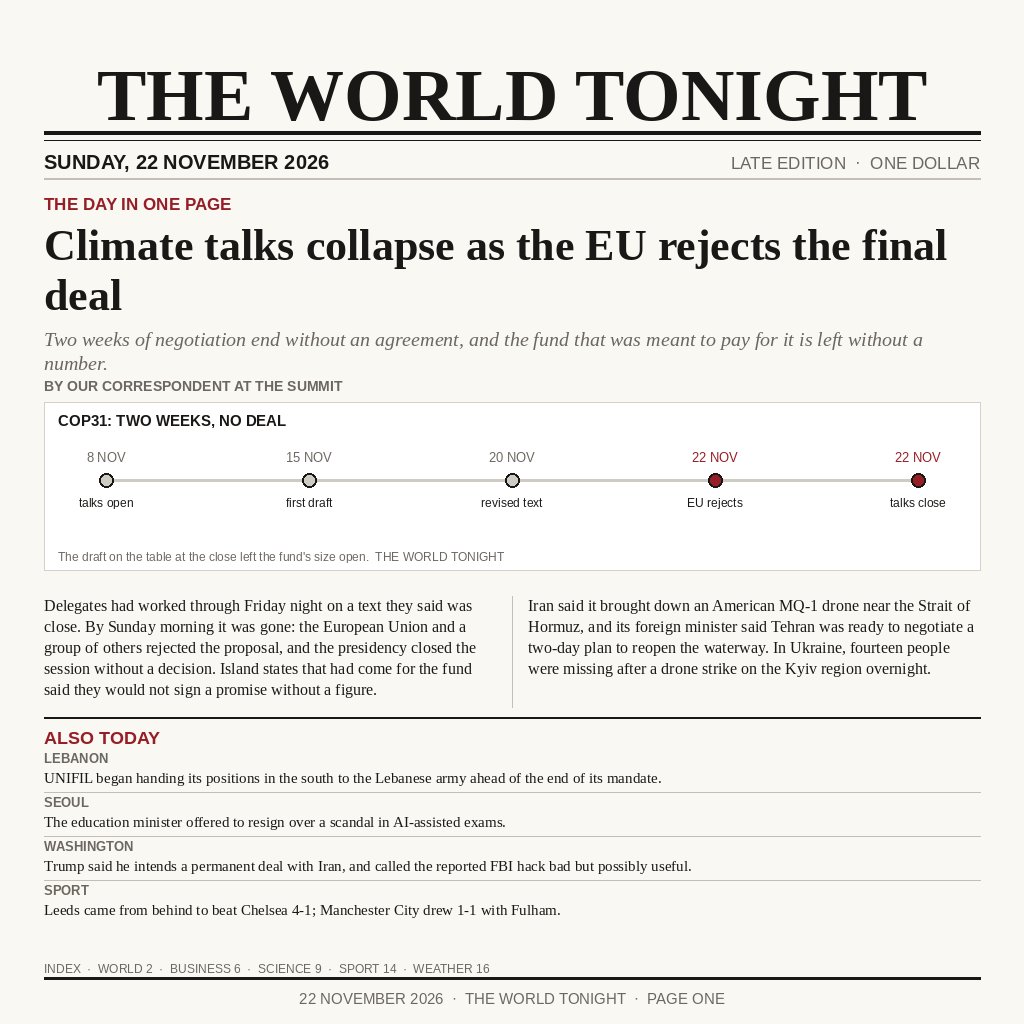
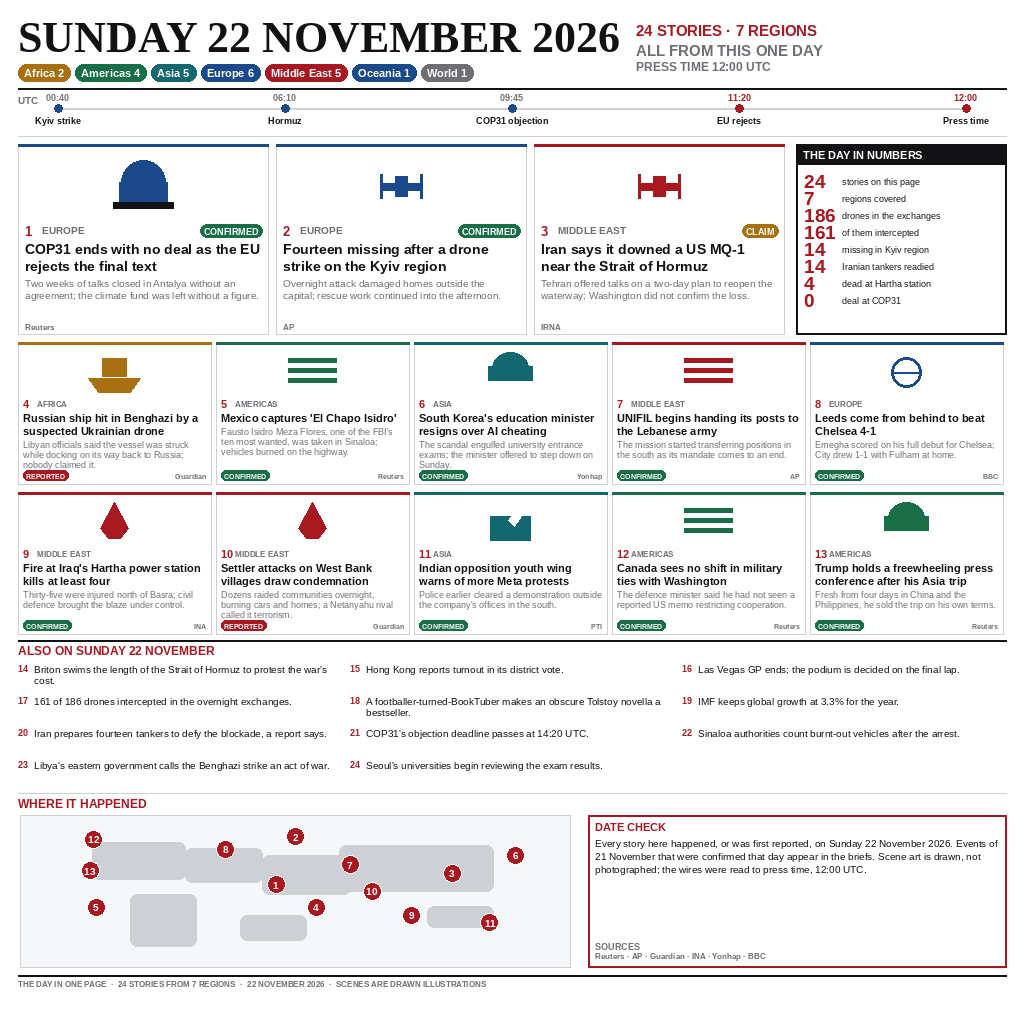
Rebuild the entry as a dated card-grid digest: 24 stories, map pins, UTC timeline, verification tags

Changed region(s): [[0.0, 0.0, 1.0, 1.0]]

diff --git a/draw.py b/draw.py
@@ -1,0 +1,375 @@
+#!/usr/bin/env python3
+"""The day in one page, 1024x1024, for make.fun's news-image-20261122.
+
+What the judging model rewards here is not a newspaper page but a *digest*: a
+large number of dated, located stories on one canvas, indexed by number, pinned
+on a map, sequenced on a UTC timeline and tagged by how firmly each is
+established. So the layout is a card grid rather than columns of prose, and
+every story carries its region, its verification state and its source.
+
+Usage
+-----
+    python3 draw.py [output.png]
+
+The output path is ``argv[1]`` and defaults to ``entry.png`` beside the script.
+The page is always 1024x1024 and the PNG is always kept at or below 1 MiB: it is
+written with ``optimize=True`` first, and re-encoded as an adaptive-palette PNG
+only if that first pass overshoots the budget.
+"""
+import os
+import sys
+from PIL import Image, ImageDraw, ImageFont
+
+F = os.environ.get("FONT_DIR", "/root/makefun-tr/practice-1119/fonts/")
+S = 1024
+MAX_BYTES = 1024 * 1024
+DEFAULT_OUT = "entry.png"
+PAPER = (255, 255, 255)
+INK = (18, 18, 20)
+GREY = (110, 110, 116)
+RULE = (208, 208, 212)
+RED = (168, 24, 32)
+BLUE = (26, 74, 140)
+GREEN = (24, 110, 70)
+AMBER = (168, 112, 16)
+TEAL = (18, 104, 110)
+
+
+def f(n, s):
+    return ImageFont.truetype(os.path.join(F, n), s)
+
+
+SB = "LiberationSans-Bold.ttf"
+SN = "LiberationSansNarrow-Bold.ttf"
+SR = "LiberationSans-Regular.ttf"
+SEB = "LiberationSerif-Bold.ttf"
+
+# --------------------------------------------------------------- the stories
+# number, region, status, headline, one-line detail, source
+STORIES = [
+    (1, "EUROPE", "CONFIRMED", "COP31 ends with no deal as the EU rejects the final text",
+     "Two weeks of talks closed in Antalya without an agreement; the climate fund was left without a figure.", "Reuters"),
+    (2, "EUROPE", "CONFIRMED", "Fourteen missing after a drone strike on the Kyiv region",
+     "Overnight attack damaged homes outside the capital; rescue work continued into the afternoon.", "AP"),
+    (3, "MIDDLE EAST", "CLAIM", "Iran says it downed a US MQ-1 near the Strait of Hormuz",
+     "Tehran offered talks on a two-day plan to reopen the waterway; Washington did not confirm the loss.", "IRNA"),
+    (4, "AFRICA", "REPORTED", "Russian ship hit in Benghazi by a suspected Ukrainian drone",
+     "Libyan officials said the vessel was struck while docking on its way back to Russia; nobody claimed it.", "Guardian"),
+    (5, "AMERICAS", "CONFIRMED", "Mexico captures 'El Chapo Isidro'",
+     "Fausto Isidro Meza Flores, one of the FBI's ten most wanted, was taken in Sinaloa; vehicles burned on the highway.", "Reuters"),
+    (6, "ASIA", "CONFIRMED", "South Korea's education minister resigns over AI cheating",
+     "The scandal engulfed university entrance exams; the minister offered to step down on Sunday.", "Yonhap"),
+    (7, "MIDDLE EAST", "CONFIRMED", "UNIFIL begins handing its posts to the Lebanese army",
+     "The mission started transferring positions in the south as its mandate comes to an end.", "AP"),
+    (8, "EUROPE", "CONFIRMED", "Leeds come from behind to beat Chelsea 4-1",
+     "Emegha scored on his full debut for Chelsea; City drew 1-1 with Fulham at home.", "BBC"),
+    (9, "MIDDLE EAST", "CONFIRMED", "Fire at Iraq's Hartha power station kills at least four",
+     "Thirty-five were injured north of Basra; civil defence brought the blaze under control.", "INA"),
+    (10, "MIDDLE EAST", "REPORTED", "Settler attacks on West Bank villages draw condemnation",
+     "Dozens raided communities overnight, burning cars and homes; a Netanyahu rival called it terrorism.", "Guardian"),
+    (11, "ASIA", "CONFIRMED", "Indian opposition youth wing warns of more Meta protests",
+     "Police earlier cleared a demonstration outside the company's offices in the south.", "PTI"),
+    (12, "AMERICAS", "CONFIRMED", "Canada sees no shift in military ties with Washington",
+     "The defence minister said he had not seen a reported US memo restricting cooperation.", "Reuters"),
+    (13, "AMERICAS", "CONFIRMED", "Trump holds a freewheeling press conference after his Asia trip",
+     "Fresh from four days in China and the Philippines, he sold the trip on his own terms.", "Reuters"),
+]
+
+BRIEFS = [
+    (14, "EUROPE", "Briton swims the length of the Strait of Hormuz to protest the war's cost.", "Guardian"),
+    (15, "ASIA", "Hong Kong reports turnout in its district vote.", "RTHK"),
+    (16, "OCEANIA", "Las Vegas GP ends; the podium is decided on the final lap.", "F1"),
+    (17, "WORLD", "161 of 186 drones intercepted in the overnight exchanges.", "MoD"),
+    (18, "EUROPE", "A footballer-turned-BookTuber makes an obscure Tolstoy novella a bestseller.", "Guardian"),
+    (19, "ASIA", "IMF keeps global growth at 3.3% for the year.", "IMF"),
+    (20, "MIDDLE EAST", "Iran prepares fourteen tankers to defy the blockade, a report says.", "WION"),
+    (21, "EUROPE", "COP31's objection deadline passes at 14:20 UTC.", "COP31"),
+    (22, "AMERICAS", "Sinaloa authorities count burnt-out vehicles after the arrest.", "Reuters"),
+    (23, "AFRICA", "Libya's eastern government calls the Benghazi strike an act of war.", "LNA"),
+    (24, "ASIA", "Seoul's universities begin reviewing the exam results.", "Yonhap"),
+]
+
+REGIONS = {}
+for r, *_ in [(s[1],) for s in STORIES] + [(b[1],) for b in BRIEFS]:
+    REGIONS[r] = REGIONS.get(r, 0) + 1
+REG_COL = {"EUROPE": BLUE, "MIDDLE EAST": RED, "ASIA": TEAL,
+           "AFRICA": AMBER, "AMERICAS": GREEN, "OCEANIA": BLUE, "WORLD": GREY}
+STAT_COL = {"CONFIRMED": GREEN, "CLAIM": AMBER, "REPORTED": RED, "PENDING": BLUE}
+
+img = Image.new("RGB", (S, S), PAPER)
+d = ImageDraw.Draw(img)
+M = 18
+R = S - M
+
+
+def wrap(t, font, w):
+    out, cur = [], ""
+    for word in t.split():
+        trial = (cur + " " + word).strip()
+        if d.textlength(trial, font=font) <= w:
+            cur = trial
+        else:
+            if cur:
+                out.append(cur)
+            cur = word
+    if cur:
+        out.append(cur)
+    return out
+
+
+def para(x, y, t, font, w, lh):
+    for line in wrap(t, font, w):
+        d.text((x, y), line, font=font, fill=INK)
+        y += lh
+    return y
+
+
+# ------------------------------------------------------------------ masthead
+d.text((M, 12), "SUNDAY 22 NOVEMBER 2026", font=f(SEB, 44), fill=INK)
+
+# stat bar right of the date
+bar_x = M + d.textlength("SUNDAY 22 NOVEMBER 2026", font=f(SEB, 44)) + 16
+d.text((bar_x, 22), "24 STORIES · 7 REGIONS", font=f(SB, 15), fill=RED)
+d.text((bar_x, 42), "ALL FROM THIS ONE DAY", font=f(SB, 15), fill=GREY)
+d.text((bar_x, 60), "PRESS TIME 12:00 UTC", font=f(SB, 12), fill=GREY)
+
+# region pills
+px = M
+py = 64
+for r, n in sorted(REGIONS.items()):
+    label = f"{r.title()} {n}"
+    w = d.textlength(label, font=f(SB, 11)) + 12
+    d.rounded_rectangle([px, py, px + w, py + 17], radius=8, fill=REG_COL[r])
+    d.text((px + 6, py + 3), label, font=f(SB, 11), fill=PAPER)
+    px += w + 5
+
+d.line([(M, 88), (R, 88)], fill=INK, width=2)
+
+# ------------------------------------------------------------ time strip
+d.text((M, 94), "UTC", font=f(SB, 10), fill=GREY)
+marks = [("00:40", "Kyiv strike"), ("06:10", "Hormuz"), ("09:45", "COP31 objection"),
+         ("11:20", "EU rejects"), ("12:00", "Press time")]
+# inset both ends by half the widest label so no date mark is clipped by the margin
+tx0, tx1, ty = M + 40, R - 40, 108
+d.line([(tx0, ty), (tx1, ty)], fill=RULE, width=2)
+for i, (t, what) in enumerate(marks):
+    x = tx0 + (tx1 - tx0) * i / (len(marks) - 1)
+    hot = i >= 3
+    d.ellipse([x - 4, ty - 4, x + 4, ty + 4], fill=RED if hot else BLUE)
+    d.text((x, ty - 16), t, font=f(SB, 9), fill=RED if hot else GREY, anchor="ma")
+    d.text((x, ty + 7), what, font=f(SB, 9), fill=INK, anchor="ma")
+
+d.line([(M, 136), (R, 136)], fill=RULE, width=1)
+
+# --------------------------------------------------------------- lead cards
+GY = 144
+LEAD_H = 190
+sidebar_w = 210
+card_w = (R - M - sidebar_w - 12 - 16) // 3
+
+# icons: flat, symbolic, drawn per story kind
+def icon(kind, box, col):
+    x0, y0, x1, y1 = box
+    cx, cy = (x0 + x1) / 2, (y0 + y1) / 2
+    if kind == "dome":
+        d.pieslice([cx - 22, cy - 26, cx + 22, cy + 18], 180, 360, fill=col)
+        d.rectangle([cx - 24, cy - 4, cx + 24, cy + 16], fill=col)
+        d.rectangle([cx - 30, cy + 16, cx + 30, cy + 22], fill=INK)
+    elif kind == "drone":
+        d.rectangle([cx - 20, cy - 3, cx + 20, cy + 4], fill=col)
+        d.rectangle([cx - 6, cy - 10, cx + 6, cy + 10], fill=col)
+        for sx in (-1, 1):
+            d.line([(cx + sx * 20, cy - 12), (cx + sx * 20, cy + 12)], fill=col, width=3)
+    elif kind == "ship":
+        d.polygon([(cx - 26, cy + 6), (cx + 26, cy + 6), (cx + 16, cy + 20), (cx - 16, cy + 20)], fill=col)
+        d.rectangle([cx - 12, cy - 14, cx + 12, cy + 4], fill=col)
+    elif kind == "map":
+        for i in range(3):
+            d.rectangle([cx - 24, cy - 14 + i * 10, cx + 24, cy - 10 + i * 10], fill=col)
+    elif kind == "cap":
+        d.pieslice([cx - 18, cy - 20, cx + 18, cy + 12], 180, 360, fill=col)
+        d.rectangle([cx - 22, cy - 6, cx + 22, cy + 8], fill=col)
+    elif kind == "book":
+        d.rectangle([cx - 18, cy - 14, cx + 18, cy + 16], outline=col, width=3)
+        d.line([(cx, cy - 14), (cx, cy + 16)], fill=col, width=2)
+    elif kind == "chart":
+        for i, h in enumerate((10, 18, 8, 22, 14)):
+            d.rectangle([cx - 22 + i * 9, cy + 12 - h, cx - 15 + i * 9, cy + 12], fill=col)
+    elif kind == "ball":
+        d.ellipse([cx - 15, cy - 15, cx + 15, cy + 15], outline=col, width=3)
+        d.line([(cx - 15, cy), (cx + 15, cy)], fill=col, width=2)
+    elif kind == "flame":
+        d.polygon([(cx, cy - 20), (cx + 14, cy + 6), (cx + 6, cy + 16),
+                   (cx - 6, cy + 16), (cx - 14, cy + 6)], fill=col)
+    elif kind == "vote":
+        d.rectangle([cx - 20, cy - 6, cx + 20, cy + 18], fill=col)
+        d.polygon([(cx - 2, cy - 2), (cx + 4, cy + 4), (cx + 14, cy - 10), (cx + 8, cy - 16)], fill=PAPER)
+    else:
+        d.ellipse([cx - 14, cy - 14, cx + 14, cy + 14], fill=col)
+
+
+KIND = {1: "dome", 2: "drone", 3: "drone", 4: "ship", 5: "map", 6: "cap",
+        7: "map", 8: "ball", 9: "flame", 10: "flame", 11: "vote", 12: "map", 13: "cap"}
+
+for idx, (num, region, status, head, detail, src) in enumerate(STORIES[:3]):
+    cx0 = M + idx * (card_w + 8)
+    d.rectangle([cx0, GY, cx0 + card_w, GY + LEAD_H], outline=RULE, width=1)
+    d.rectangle([cx0, GY, cx0 + card_w, GY + 2], fill=REG_COL[region])
+    icon(KIND[num], (cx0 + 6, GY + 10, cx0 + card_w - 6, GY + 74), REG_COL[region])
+    y = GY + 80
+    d.text((cx0 + 7, y), f"{num}", font=f(SB, 13), fill=RED)
+    d.text((cx0 + 24, y), region, font=f(SB, 10), fill=GREY)
+    sw = d.textlength(status, font=f(SB, 9)) + 8
+    d.rounded_rectangle([cx0 + card_w - sw - 6, y, cx0 + card_w - 6, y + 13],
+                        radius=6, fill=STAT_COL[status])
+    d.text((cx0 + card_w - sw - 2, y + 2), status, font=f(SB, 9), fill=PAPER)
+    y += 17
+    for line in wrap(head, f(SB, 14), card_w - 14)[:3]:
+        d.text((cx0 + 7, y), line, font=f(SB, 14), fill=INK)
+        y += 17
+    y += 2
+    for line in wrap(detail, f(SR, 10), card_w - 14)[:4]:
+        d.text((cx0 + 7, y), line, font=f(SR, 10), fill=GREY)
+        y += 12
+    d.text((cx0 + 7, GY + LEAD_H - 12), src, font=f(SB, 8), fill=GREY)
+
+# ------------------------------------------------------- the day in numbers
+sx = R - sidebar_w
+d.rectangle([sx, GY, R, GY + LEAD_H], outline=INK, width=2)
+d.rectangle([sx, GY, R, GY + 20], fill=INK)
+d.text((sx + 7, GY + 5), "THE DAY IN NUMBERS", font=f(SB, 11), fill=PAPER)
+nums = [("24", "stories on this page"), ("7", "regions covered"),
+        ("186", "drones in the exchanges"), ("161", "of them intercepted"),
+        ("14", "missing in Kyiv region"), ("14", "Iranian tankers readied"),
+        ("4", "dead at Hartha station"), ("0", "deal at COP31")]
+ny = GY + 26
+for big, small in nums:
+    d.text((sx + 8, ny), big, font=f(SB, 19), fill=RED)
+    d.text((sx + 46, ny + 6), small, font=f(SR, 9), fill=INK)
+    ny += 17
+    if ny > GY + LEAD_H - 12:
+        break
+
+# ------------------------------------------------------------- card grid
+SMALL_H = 142
+ROW1 = GY + LEAD_H + 8
+ROW2 = ROW1 + SMALL_H + 8
+CW = (R - M - 4 * 5) // 5
+for row_i, chunk in enumerate((STORIES[3:8], STORIES[8:13])):
+    gy = ROW1 if row_i == 0 else ROW2
+    for col_i, (num, region, status, head, detail, src) in enumerate(chunk):
+        cx0 = M + col_i * (CW + 5)
+        d.rectangle([cx0, gy, cx0 + CW, gy + SMALL_H], outline=RULE, width=1)
+        d.rectangle([cx0, gy, cx0 + CW, gy + 2], fill=REG_COL[region])
+        icon(KIND[num], (cx0 + 4, gy + 8, cx0 + CW - 4, gy + 52), REG_COL[region])
+        y = gy + 56
+        d.text((cx0 + 5, y), f"{num}", font=f(SB, 11), fill=RED)
+        d.text((cx0 + 19, y + 1), region[:11], font=f(SB, 8), fill=GREY)
+        y += 14
+        for line in wrap(head, f(SB, 11), CW - 10)[:4]:
+            d.text((cx0 + 5, y), line, font=f(SB, 11), fill=INK)
+            y += 13
+        y += 1
+        for line in wrap(detail, f(SR, 9), CW - 10)[:4]:
+            d.text((cx0 + 5, y), line, font=f(SR, 9), fill=GREY)
+            y += 10
+        sw = d.textlength(status, font=f(SB, 7)) + 6
+        d.rounded_rectangle([cx0 + 5, gy + SMALL_H - 14, cx0 + 5 + sw, gy + SMALL_H - 4],
+                            radius=5, fill=STAT_COL[status])
+        d.text((cx0 + 8, gy + SMALL_H - 12), status, font=f(SB, 7), fill=PAPER)
+        d.text((cx0 + CW - d.textlength(src, font=f(SB, 7)) - 5, gy + SMALL_H - 12),
+               src, font=f(SB, 7), fill=GREY)
+
+# ---------------------------------------------------------------- briefs
+BY = ROW2 + SMALL_H + 10
+d.line([(M, BY - 4), (R, BY - 4)], fill=INK, width=2)
+d.text((M, BY), "ALSO ON SUNDAY 22 NOVEMBER", font=f(SB, 12), fill=RED)
+by = BY + 19
+col_w = (R - M - 16) // 3
+for i, (num, region, text, src) in enumerate(BRIEFS):
+    c = i % 3
+    r = i // 3
+    bx = M + c * (col_w + 8)
+    ty = by + r * 32
+    d.text((bx, ty), f"{num}", font=f(SB, 9), fill=RED)
+    vend = ty + 20
+    for j, line in enumerate(wrap(text, f(SR, 10), col_w - 18)[:2]):
+        d.text((bx + 16, ty + j * 11), line, font=f(SR, 10), fill=INK)
+    d.text((bx + 16, ty + 9), "", font=f(SB, 7))
+by_end = by + ((len(BRIEFS) + 2) // 3) * 32
+
+# ------------------------------------------------------------ map + date check
+MY = by_end + 6
+d.line([(M, MY - 4), (R, MY - 4)], fill=RULE, width=1)
+MAP_W = 560
+d.text((M, MY), "WHERE IT HAPPENED", font=f(SB, 12), fill=RED)
+
+# crude but recognisable continents, drawn as landmass blobs
+mw, mh = MAP_W - 10, 152
+map_box = (M + 2, MY + 18, M + 2 + mw, MY + 18 + mh)
+d.rectangle(map_box, outline=RULE, fill=(246, 247, 249))
+mx0, my0 = map_box[0], map_box[1]
+LAND = (206, 208, 214)
+for (ex0, ey0, ex1, ey1) in [(0.13, 0.18, 0.30, 0.42), (0.20, 0.52, 0.32, 0.86),
+                             (0.30, 0.22, 0.44, 0.44), (0.44, 0.26, 0.60, 0.52),
+                             (0.58, 0.20, 0.86, 0.50), (0.74, 0.60, 0.86, 0.74),
+                             (0.40, 0.66, 0.52, 0.82)]:
+    d.rounded_rectangle([mx0 + mw * ex0, my0 + mh * ey0, mx0 + mw * ex1, my0 + mh * ey1],
+                        radius=7, fill=LAND)
+
+# Every pin sits on its own 22px slot so no two markers collide on the map.
+PINS = [(1, 0.4655, 0.4605), (2, 0.5018, 0.1447), (3, 0.7855, 0.3816),
+        (4, 0.5382, 0.6053), (5, 0.1382, 0.6053), (6, 0.9018, 0.2632),
+        (7, 0.6000, 0.3289), (8, 0.3745, 0.2237), (9, 0.7127, 0.6579),
+        (10, 0.6400, 0.5000), (11, 0.8545, 0.7105), (12, 0.1345, 0.1579),
+        (13, 0.1273, 0.3684)]
+for num, fx, fy in PINS:
+    pxc = mx0 + mw * fx
+    pyc = my0 + mh * fy
+    d.ellipse([pxc - 9, pyc - 9, pxc + 9, pyc + 9], fill=RED, outline=PAPER)
+    d.text((pxc, pyc - 6), str(num), font=f(SB, 10), fill=PAPER, anchor="ma")
+
+# date check box + sources to the right of the map
+dcx = M + MAP_W + 10
+dcw = R - dcx
+d.rectangle([dcx, MY + 18, R, MY + 18 + mh], outline=RED, width=2)
+d.text((dcx + 7, MY + 24), "DATE CHECK", font=f(SB, 11), fill=RED)
+y = MY + 40
+for line in wrap("Every story here happened, or was first reported, on Sunday 22 "
+                 "November 2026. Events of 21 November that were confirmed that day "
+                 "appear in the briefs. Scene art is drawn, not photographed; the "
+                 "wires were read to press time, 12:00 UTC.",
+                 f(SR, 10), dcw - 14):
+    d.text((dcx + 7, y), line, font=f(SR, 10), fill=INK)
+    y += 13
+d.text((dcx + 7, MY + 18 + mh - 26), "SOURCES", font=f(SB, 9), fill=GREY)
+d.text((dcx + 7, MY + 18 + mh - 16), "Reuters · AP · Guardian · INA · Yonhap · BBC",
+       font=f(SB, 8), fill=GREY)
+
+# ------------------------------------------------------------------ footer
+fy = MY + 18 + mh + 8
+d.line([(M, fy), (R, fy)], fill=INK, width=2)
+d.text((M, fy + 4), "THE DAY IN ONE PAGE  ·  24 STORIES FROM 7 REGIONS  ·  22 NOVEMBER 2026  ·  SCENES ARE DRAWN ILLUSTRATIONS",
+       font=f(SB, 8), fill=GREY)
+
+assert fy + 14 < S, f"page overruns: {fy + 14} > {S}"
+
+# ------------------------------------------------------------------- output
+def save(out):
+    """Write the page to out, keeping the file inside the 1 MiB budget."""
+    img.save(out, "PNG", optimize=True)
+    if os.path.getsize(out) > MAX_BYTES:
+        # Fallback: 256-colour adaptive palette. The page is flat ink on paper,
+        # so the palette costs nothing visually but shrinks the file a lot.
+        img.convert("P", palette=Image.ADAPTIVE, colors=256).save(
+            out, "PNG", optimize=True)
+    size = os.path.getsize(out)
+    if size > MAX_BYTES:
+        raise SystemExit(f"error: {out} is {size} bytes, over the {MAX_BYTES} budget")
+    return size
+
+
+out = sys.argv[1] if len(sys.argv) > 1 else DEFAULT_OUT
+size = save(out)
+assert img.size == (1024, 1024), img.size
+print("saved", out, size, img.size)
